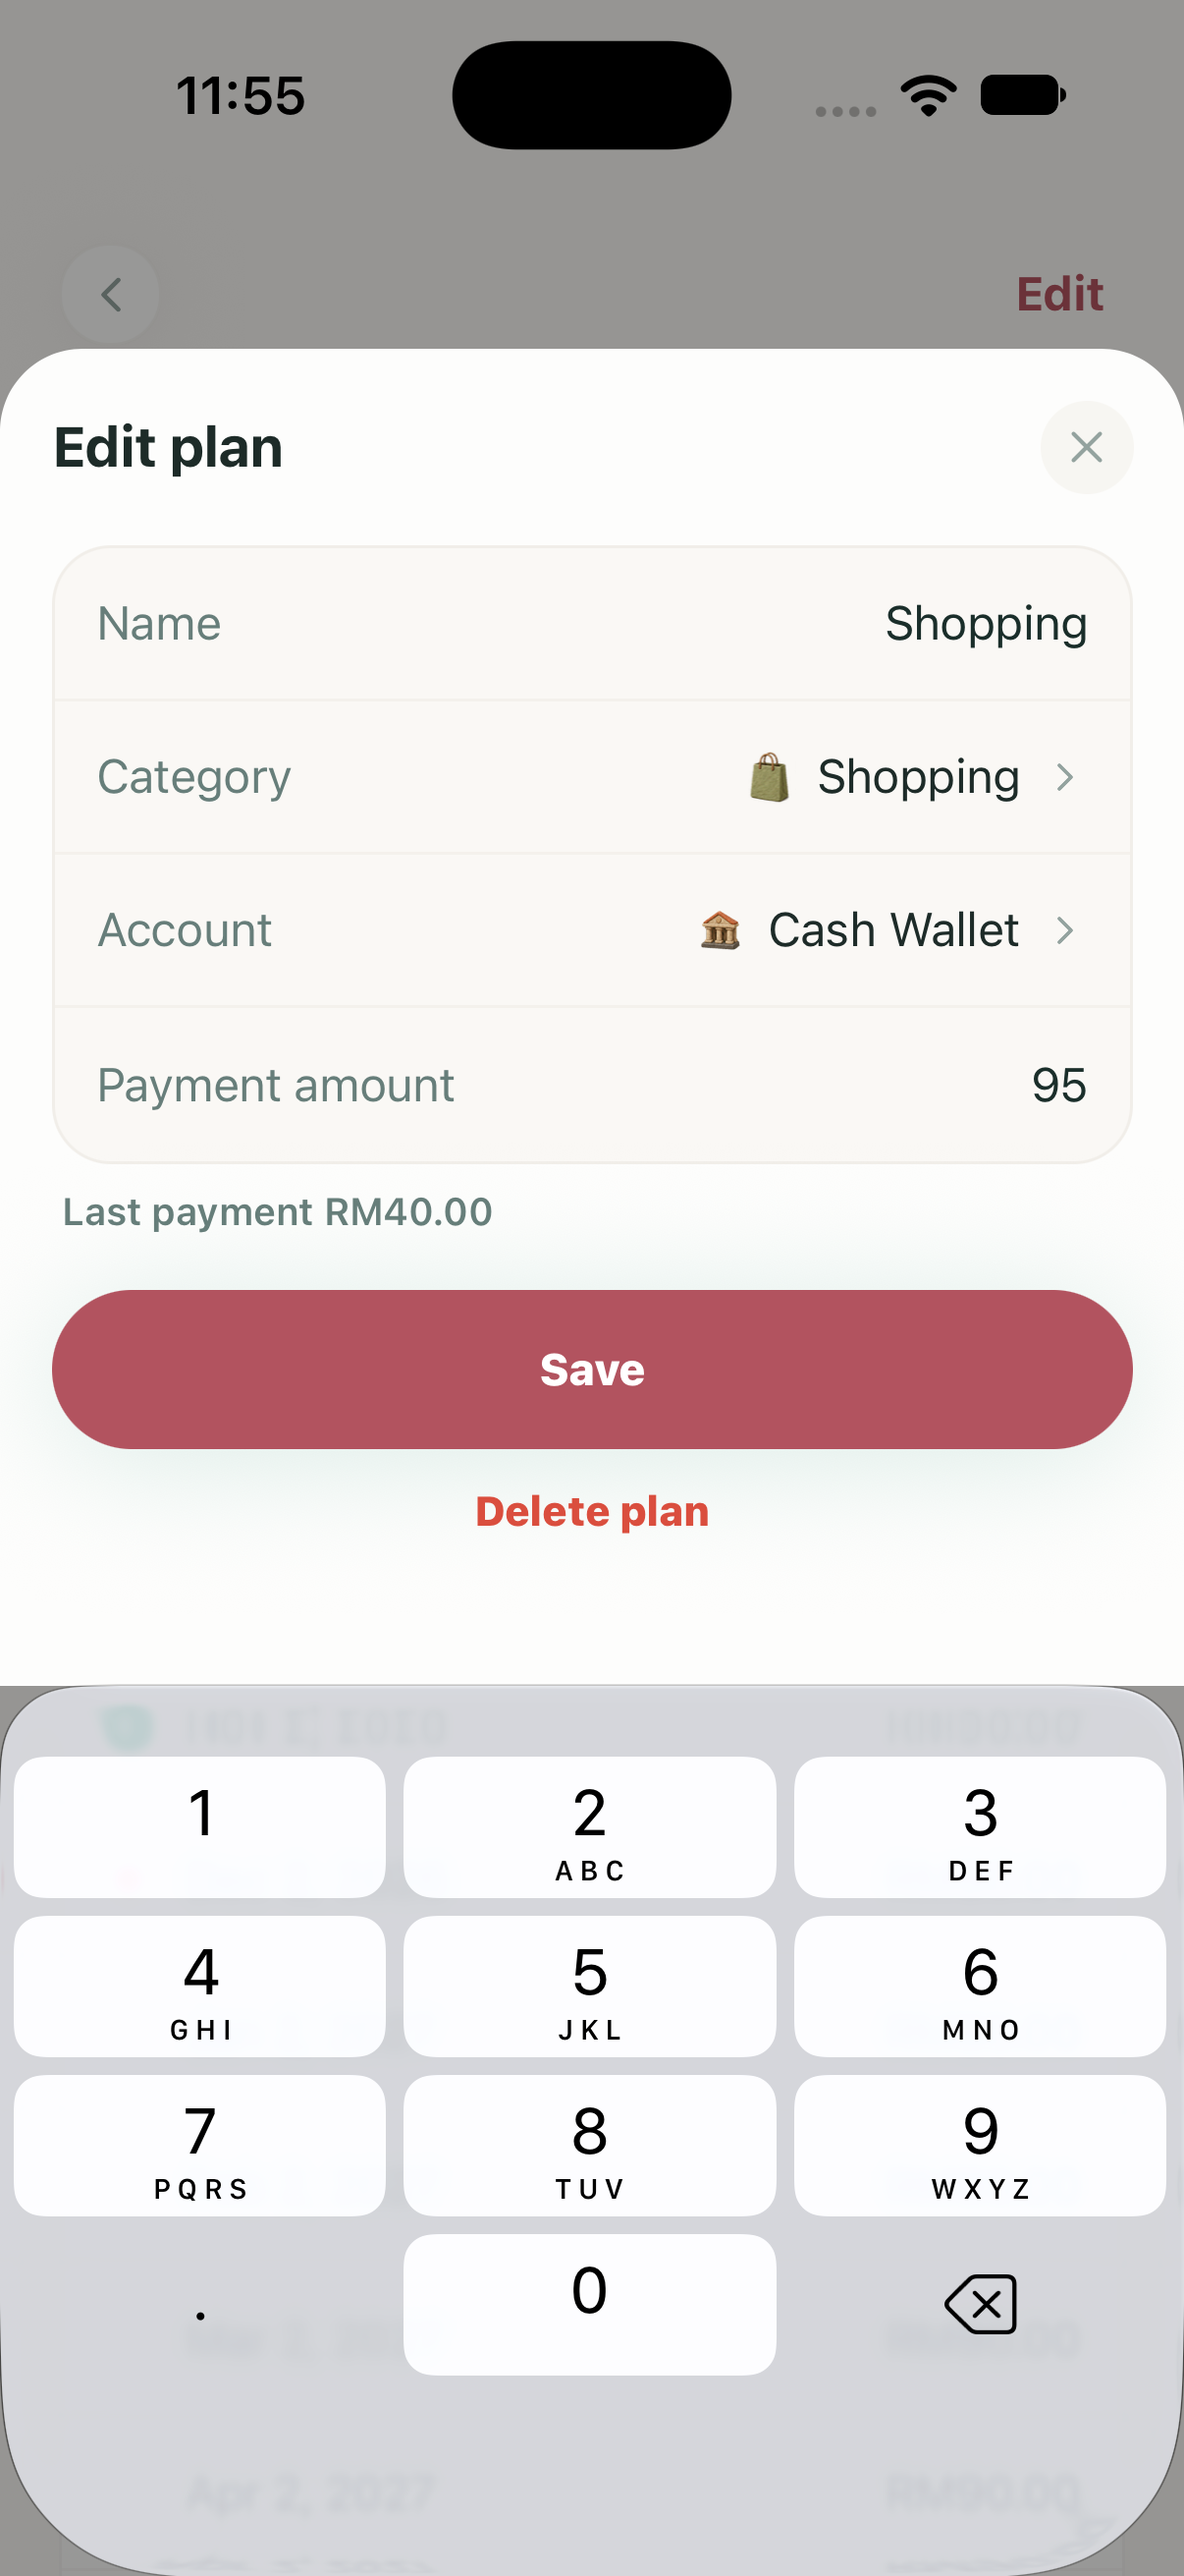
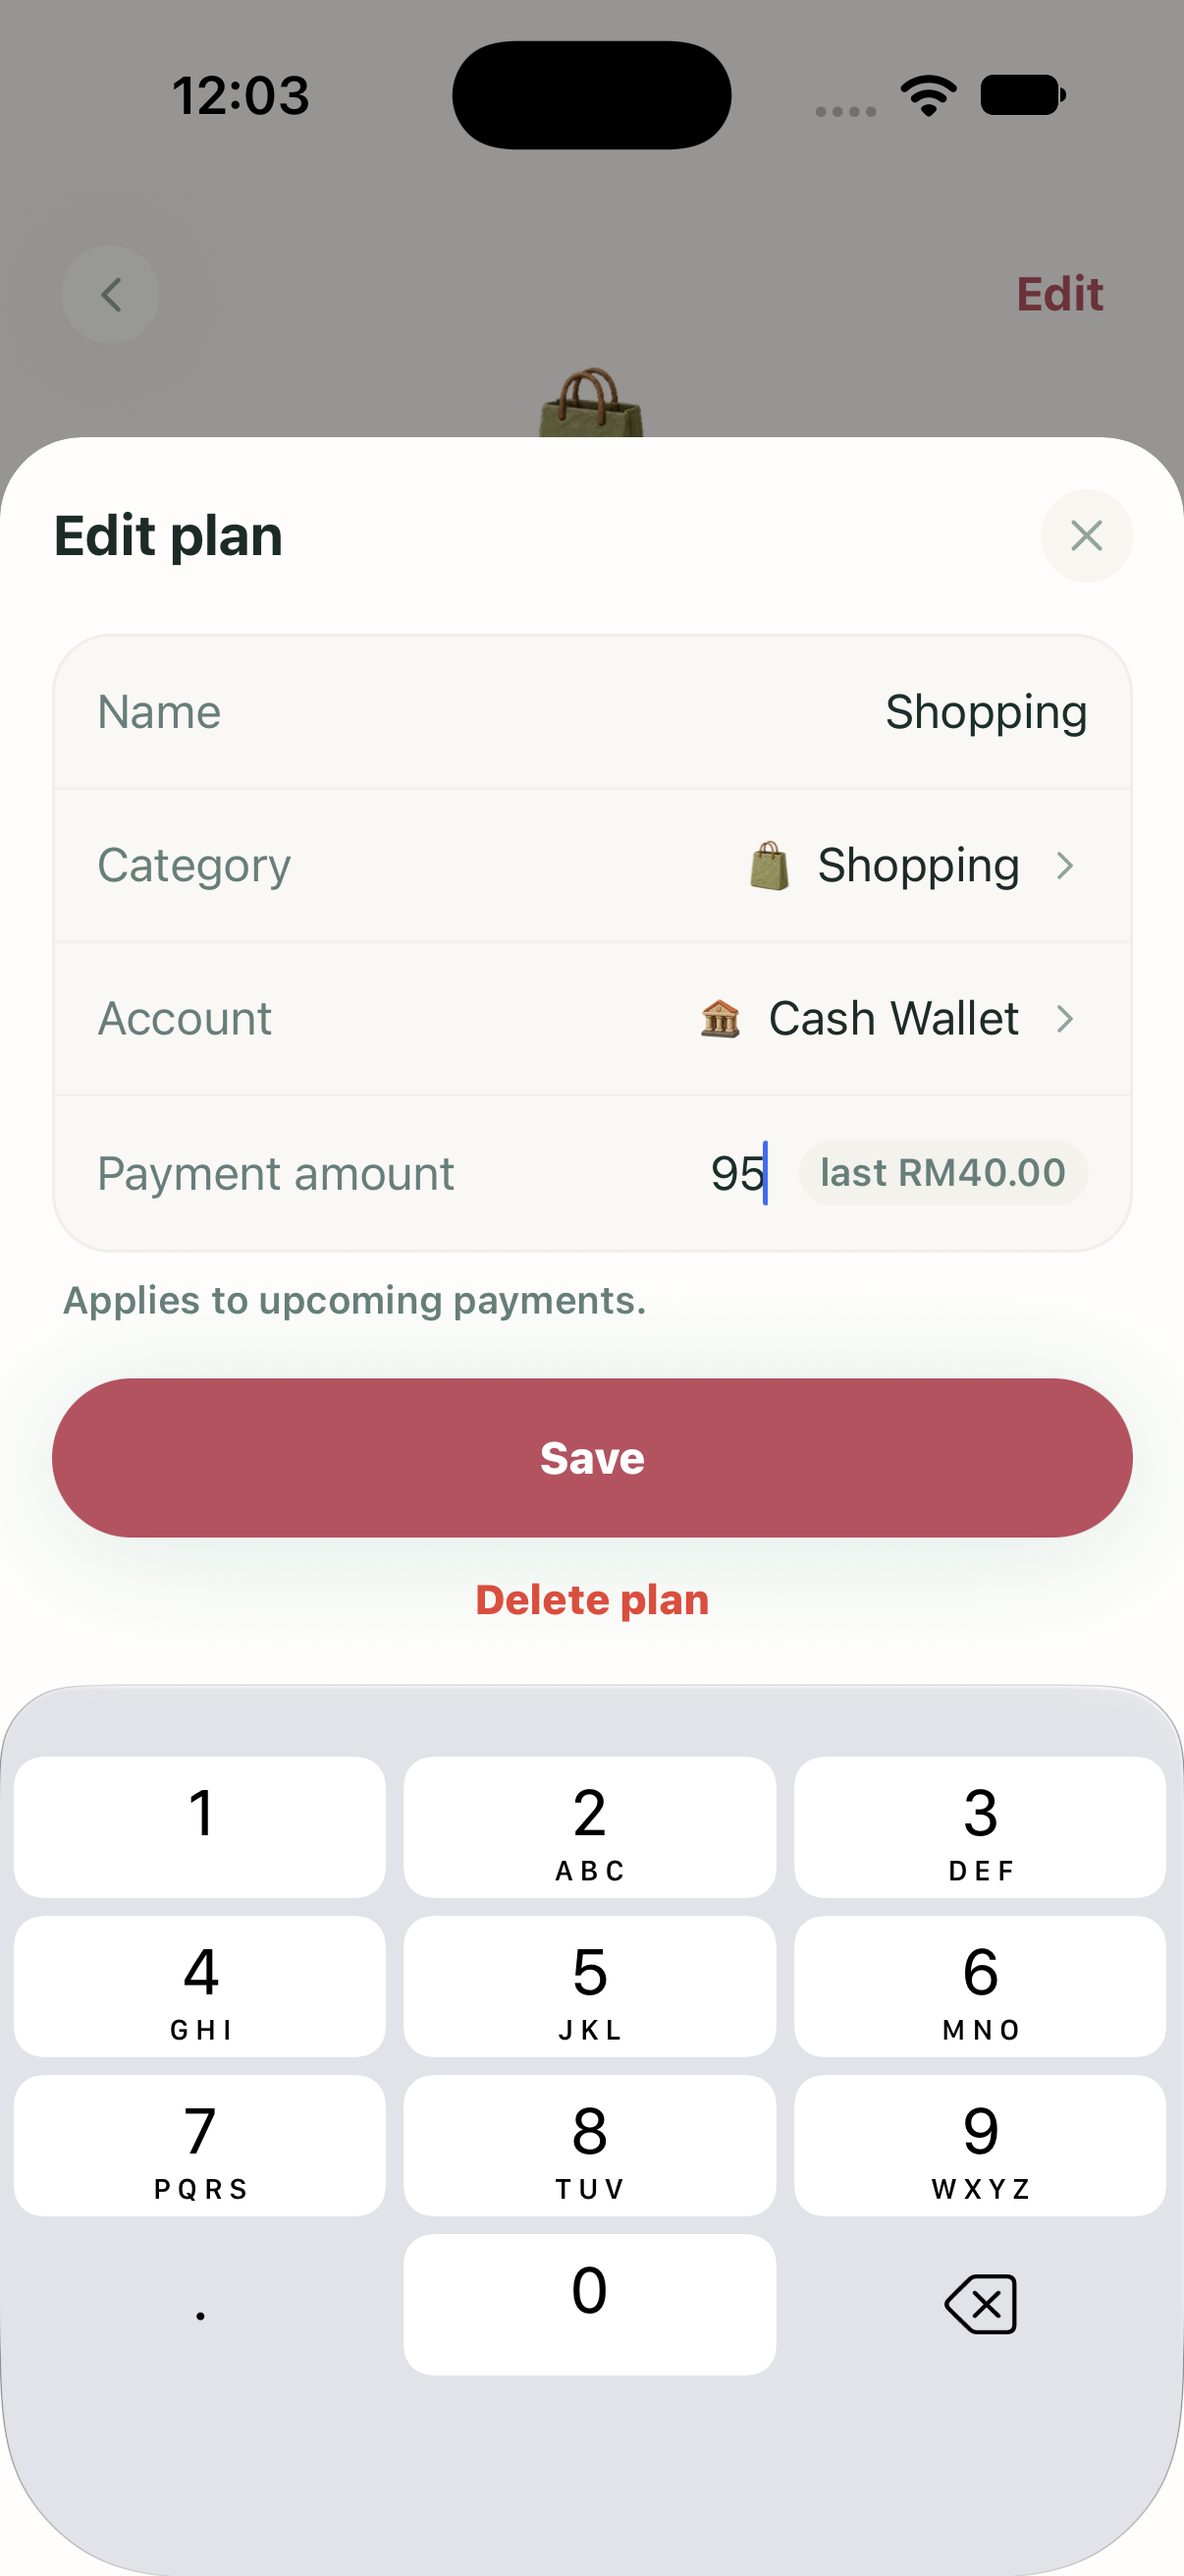
Show the last payment beside Edit plan's amount; fix sheets over the keyboard
- Edit plan's Payment amount row shows what the last payment becomes as
  a suffix, instead of a line under the list.
- Both instalment sheets grow by the keyboard's height rather than slide
  up, so their own background runs on behind the see-through keyboard.

diff --git a/apps/mobile/features/instalments/screens/InstalmentPlanScreen.tsx b/apps/mobile/features/instalments/screens/InstalmentPlanScreen.tsx
@@ -337,9 +337,13 @@ function InstalmentPlanEditSheet({
   const themeColors = useThemeColors();
   const insets = useSafeAreaInsets();
   const sheetColumnStyle = useSheetColumnStyle();
+  // The sheet grows by the keyboard's height (as padding, so its own
+  // background runs on behind the see-through keyboard) instead of sliding
+  // up and leaving the page showing through it.
+  const bottomPadding = Math.max(insets.bottom, 16) + 8;
   const keyboard = useReanimatedKeyboardAnimation();
-  const keyboardLift = useAnimatedStyle(() => ({
-    transform: [{ translateY: keyboard.height.value }],
+  const keyboardPad = useAnimatedStyle(() => ({
+    paddingBottom: Math.max(bottomPadding, -keyboard.height.value + 12),
   }));
   const [name, setName] = useState(rule.name);
   const [accountId, setAccountId] = useState(rule.accountId);
@@ -418,12 +422,15 @@ function InstalmentPlanEditSheet({
     <ThemeModal visible={visible} transparent animationType="fade" onRequestClose={onClose}>
       <View style={styles.backdrop}>
         <Pressable style={StyleSheet.absoluteFill} onPress={onClose} accessible={false} />
-        {/* Lifted by the keyboard while the name or amount is typed. */}
-        <Animated.View style={keyboardLift}>
-          <View
-            style={[sheetColumnStyle, { paddingBottom: Math.max(insets.bottom, 16) + 8 }]}
-            className="gap-5 rounded-t-[28px] bg-card px-5 pt-5"
-          >
+        <Animated.View
+          style={[
+            sheetColumnStyle,
+            styles.sheetShell,
+            { backgroundColor: themeColors.card },
+            keyboardPad,
+          ]}
+        >
+          <View className="gap-5 px-5 pt-5">
             <View className="flex-row items-center">
               <Text variant="subheading" className="flex-1">
                 {I18n.t('instalments.edit_plan')}
@@ -495,15 +502,21 @@ function InstalmentPlanEditSheet({
                       className="h-12 flex-1 text-right text-[16px]"
                       accessibilityLabel={I18n.t('instalments.payment_amount')}
                     />
+                    {/* What the last payment becomes, right beside the amount. */}
+                    {amountValid && newLast != null ? (
+                      <View className="rounded-full bg-secondary/70 px-2 py-0.5">
+                        <Text variant="caption" tone="muted" numberOfLines={1}>
+                          {I18n.t('instalments.last_amount', { amount: money(newLast) })}
+                        </Text>
+                      </View>
+                    ) : null}
                   </View>
                 ) : null}
               </View>
               <Text variant="caption" tone={amountValid ? 'muted' : 'error'} className="px-1">
-                {!amountValid
-                  ? I18n.t('instalments.amount_too_large')
-                  : newLast != null
-                    ? I18n.t('instalments.last_payment', { amount: money(newLast) })
-                    : I18n.t('instalments.edit_hint')}
+                {amountValid
+                  ? I18n.t('instalments.edit_hint')
+                  : I18n.t('instalments.amount_too_large')}
               </Text>
             </View>
 
@@ -587,6 +600,11 @@ function EditRow({
 }
 
 const styles = StyleSheet.create({
+  sheetShell: {
+    borderTopLeftRadius: 28,
+    borderTopRightRadius: 28,
+    overflow: 'hidden',
+  },
   headerWrap: {
     paddingHorizontal: SETTINGS_HORIZONTAL_PADDING,
   },

diff --git a/apps/mobile/features/instalments/components/InstalmentSheet.tsx b/apps/mobile/features/instalments/components/InstalmentSheet.tsx
@@ -116,11 +116,12 @@ export function InstalmentSheet({
   const themeColors = useThemeColors();
   const insets = useSafeAreaInsets();
   const sheetColumnStyle = useSheetColumnStyle();
-  // The keyboard's height straight onto the sheet (as QuickAddSheet does):
-  // KeyboardAvoidingView races the first open on Android.
+  // The keyboard's height straight onto the sheet (as QuickAddSheet does;
+  // KeyboardAvoidingView races the first open on Android), as padding so the
+  // sheet's own background runs on behind the see-through keyboard.
   const keyboard = useReanimatedKeyboardAnimation();
-  const keyboardLift = useAnimatedStyle(() => ({
-    transform: [{ translateY: keyboard.height.value }],
+  const keyboardPad = useAnimatedStyle(() => ({
+    paddingBottom: -keyboard.height.value,
   }));
   const [choice, setChoice] = useState<InstalmentChoice>(
     draft ?? value ?? DEFAULT_INSTALMENT_CHOICE,
@@ -158,9 +159,15 @@ export function InstalmentSheet({
     <ThemeModal visible={visible} transparent animationType="fade" onRequestClose={onClose}>
       <View style={styles.backdrop}>
         <Pressable style={StyleSheet.absoluteFill} onPress={onClose} accessible={false} />
-        {/* Lifted by the keyboard while the payment amount is typed. */}
-        <Animated.View style={keyboardLift}>
-          <View style={sheetColumnStyle} className="max-h-[92%] rounded-t-[28px] bg-card">
+        <Animated.View
+          style={[
+            sheetColumnStyle,
+            styles.sheetShell,
+            { backgroundColor: themeColors.card },
+            keyboardPad,
+          ]}
+        >
+          <View className="shrink">
             <View className="flex-row items-center px-5 pb-1 pt-5">
               <Text variant="subheading" className="flex-1">
                 {I18n.t('instalments.sheet_title')}
@@ -573,6 +580,12 @@ function ChoiceChip({
 }
 
 const styles = StyleSheet.create({
+  sheetShell: {
+    maxHeight: '92%',
+    borderTopLeftRadius: 28,
+    borderTopRightRadius: 28,
+    overflow: 'hidden',
+  },
   backdrop: {
     flex: 1,
     backgroundColor: 'rgba(0,0,0,0.4)',

diff --git a/apps/mobile/lib/i18n/locales/hi.ts b/apps/mobile/lib/i18n/locales/hi.ts
@@ -1723,6 +1723,7 @@ const hi = {
     payment_amount: 'किस्त की राशि',
     edit_amount_hint: 'हर बार बैंक जितनी राशि लेता है, वह डालें।',
     last_payment: 'आखिरी किस्त {{amount}}',
+    last_amount: 'आखिरी {{amount}}',
     split_evenly: 'बराबर बाँटें',
     amount_over_total: '{{amount}} × {{count}} = {{sum}}, कुल से ज़्यादा।',
     use_as_total: '{{amount}} को कुल राशि बनाएँ',

diff --git a/apps/mobile/lib/i18n/locales/th.ts b/apps/mobile/lib/i18n/locales/th.ts
@@ -1701,6 +1701,7 @@ const th = {
     payment_amount: 'ยอดต่องวด',
     edit_amount_hint: 'กรอกยอดที่ธนาคารเรียกเก็บในแต่ละงวด',
     last_payment: 'งวดสุดท้าย {{amount}}',
+    last_amount: 'งวดสุดท้าย {{amount}}',
     split_evenly: 'แบ่งเท่ากัน',
     amount_over_total: '{{amount}} × {{count}} = {{sum}} มากกว่ายอดรวม',
     use_as_total: 'ใช้ {{amount}} เป็นยอดรวม',

diff --git a/apps/mobile/lib/i18n/locales/ru.ts b/apps/mobile/lib/i18n/locales/ru.ts
@@ -1735,6 +1735,7 @@ const ru = {
     payment_amount: 'Сумма платежа',
     edit_amount_hint: 'Введите сумму, которую банк списывает каждый раз.',
     last_payment: 'Последний платёж {{amount}}',
+    last_amount: 'последний {{amount}}',
     split_evenly: 'Разделить поровну',
     amount_over_total: '{{amount}} × {{count}} = {{sum}}, больше общей суммы.',
     use_as_total: 'Сделать {{amount}} общей суммой',

diff --git a/apps/mobile/lib/i18n/locales/uk.ts b/apps/mobile/lib/i18n/locales/uk.ts
@@ -1729,6 +1729,7 @@ const uk = {
     payment_amount: 'Сума платежу',
     edit_amount_hint: 'Введіть суму, яку банк списує щоразу.',
     last_payment: 'Останній платіж {{amount}}',
+    last_amount: 'останній {{amount}}',
     split_evenly: 'Розділити порівну',
     amount_over_total: '{{amount}} × {{count}} = {{sum}}, більше за загальну суму.',
     use_as_total: 'Зробити {{amount}} загальною сумою',

diff --git a/apps/mobile/lib/i18n/locales/fr.ts b/apps/mobile/lib/i18n/locales/fr.ts
@@ -1746,6 +1746,7 @@ const fr = {
     payment_amount: 'Montant des échéances',
     edit_amount_hint: 'Saisissez le montant que votre banque prélève à chaque fois.',
     last_payment: 'Dernière échéance {{amount}}',
+    last_amount: 'dernière {{amount}}',
     split_evenly: 'Répartir également',
     amount_over_total: '{{amount}} × {{count}} = {{sum}}, plus que le total.',
     use_as_total: 'Utiliser {{amount}} comme total',

diff --git a/apps/mobile/lib/i18n/locales/ko.ts b/apps/mobile/lib/i18n/locales/ko.ts
@@ -1707,6 +1707,7 @@ const ko = {
     payment_amount: '회차별 금액',
     edit_amount_hint: '은행이 매번 청구하는 금액을 입력하세요.',
     last_payment: '마지막 회차 {{amount}}',
+    last_amount: '마지막 {{amount}}',
     split_evenly: '균등하게 나누기',
     amount_over_total: '{{amount}} × {{count}} = {{sum}}, 총액보다 많아요.',
     use_as_total: '{{amount}}을(를) 총액으로 사용',

diff --git a/apps/mobile/lib/i18n/locales/ja.ts b/apps/mobile/lib/i18n/locales/ja.ts
@@ -1722,6 +1722,7 @@ const ja = {
     payment_amount: '1回の支払額',
     edit_amount_hint: '銀行が毎回請求する金額を入力してください。',
     last_payment: '最終回 {{amount}}',
+    last_amount: '最終回 {{amount}}',
     split_evenly: '均等に分ける',
     amount_over_total: '{{amount}} × {{count}} = {{sum}}、合計を超えています。',
     use_as_total: '{{amount}} を合計にする',

diff --git a/apps/mobile/lib/i18n/locales/ms.ts b/apps/mobile/lib/i18n/locales/ms.ts
@@ -1741,6 +1741,7 @@ const ms = {
     payment_amount: 'Jumlah bayaran',
     edit_amount_hint: 'Taip jumlah yang dicaj bank anda setiap kali.',
     last_payment: 'Bayaran terakhir {{amount}}',
+    last_amount: 'terakhir {{amount}}',
     split_evenly: 'Bahagi sama rata',
     amount_over_total: '{{amount}} × {{count}} = {{sum}}, lebih daripada jumlah keseluruhan.',
     use_as_total: 'Guna {{amount}} sebagai jumlah keseluruhan',

diff --git a/apps/mobile/lib/i18n/locales/de.ts b/apps/mobile/lib/i18n/locales/de.ts
@@ -1749,6 +1749,7 @@ const de = {
     payment_amount: 'Ratenbetrag',
     edit_amount_hint: 'Gib den Betrag ein, den deine Bank jedes Mal abbucht.',
     last_payment: 'Letzte Rate {{amount}}',
+    last_amount: 'letzte {{amount}}',
     split_evenly: 'Gleichmäßig aufteilen',
     amount_over_total: '{{amount}} × {{count}} = {{sum}}, mehr als der Gesamtbetrag.',
     use_as_total: '{{amount}} als Gesamtbetrag nehmen',

diff --git a/apps/mobile/lib/i18n/locales/fil.ts b/apps/mobile/lib/i18n/locales/fil.ts
@@ -1752,6 +1752,7 @@ const fil = {
     payment_amount: 'Halaga ng hulog',
     edit_amount_hint: 'I-type ang halagang sinisingil ng bangko mo bawat hulog.',
     last_payment: 'Huling hulog {{amount}}',
+    last_amount: 'huling {{amount}}',
     split_evenly: 'Hatiin nang pantay',
     amount_over_total: '{{amount}} × {{count}} = {{sum}}, higit sa kabuuan.',
     use_as_total: 'Gawing kabuuan ang {{amount}}',
